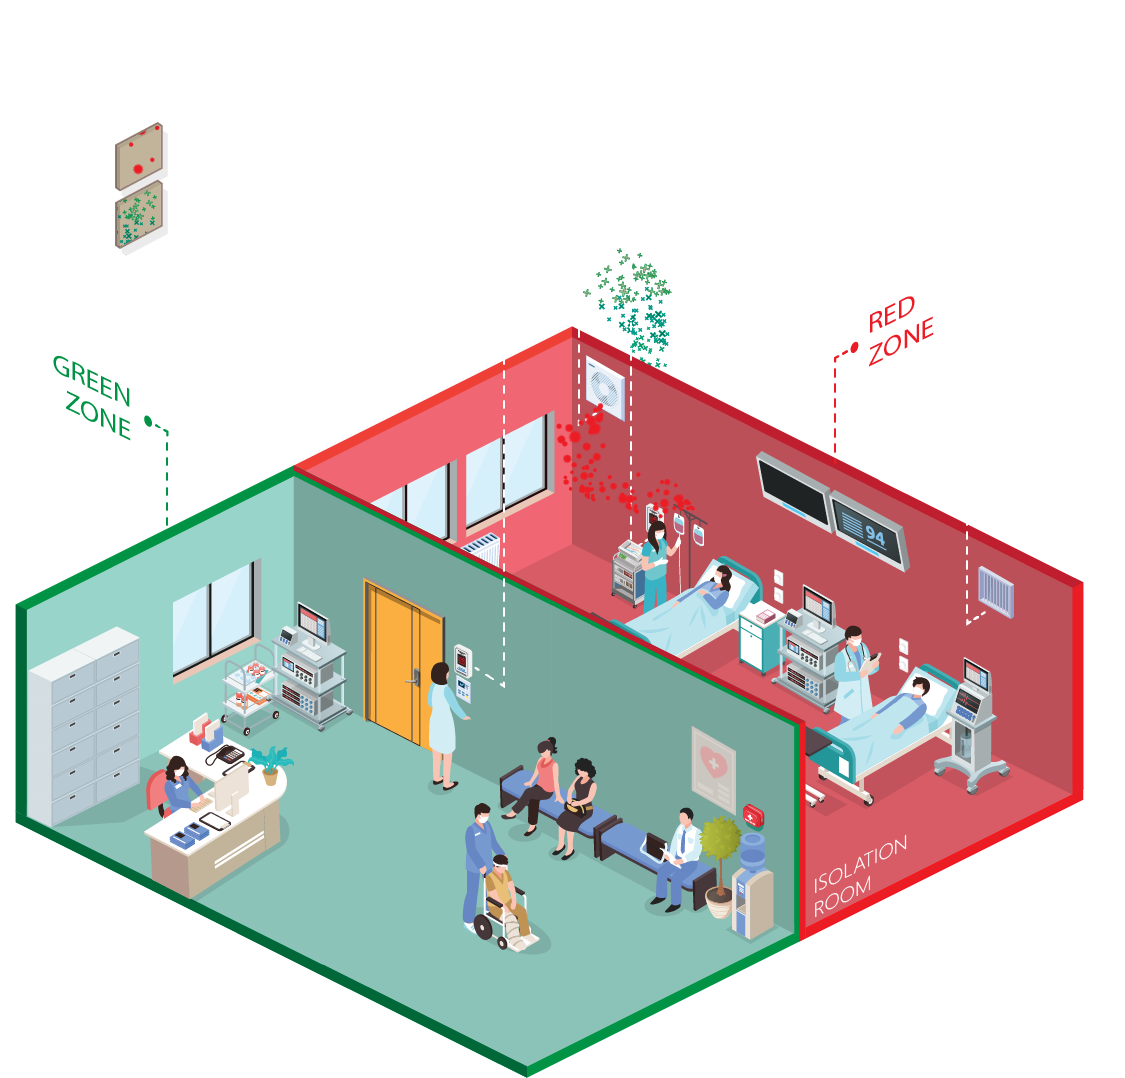
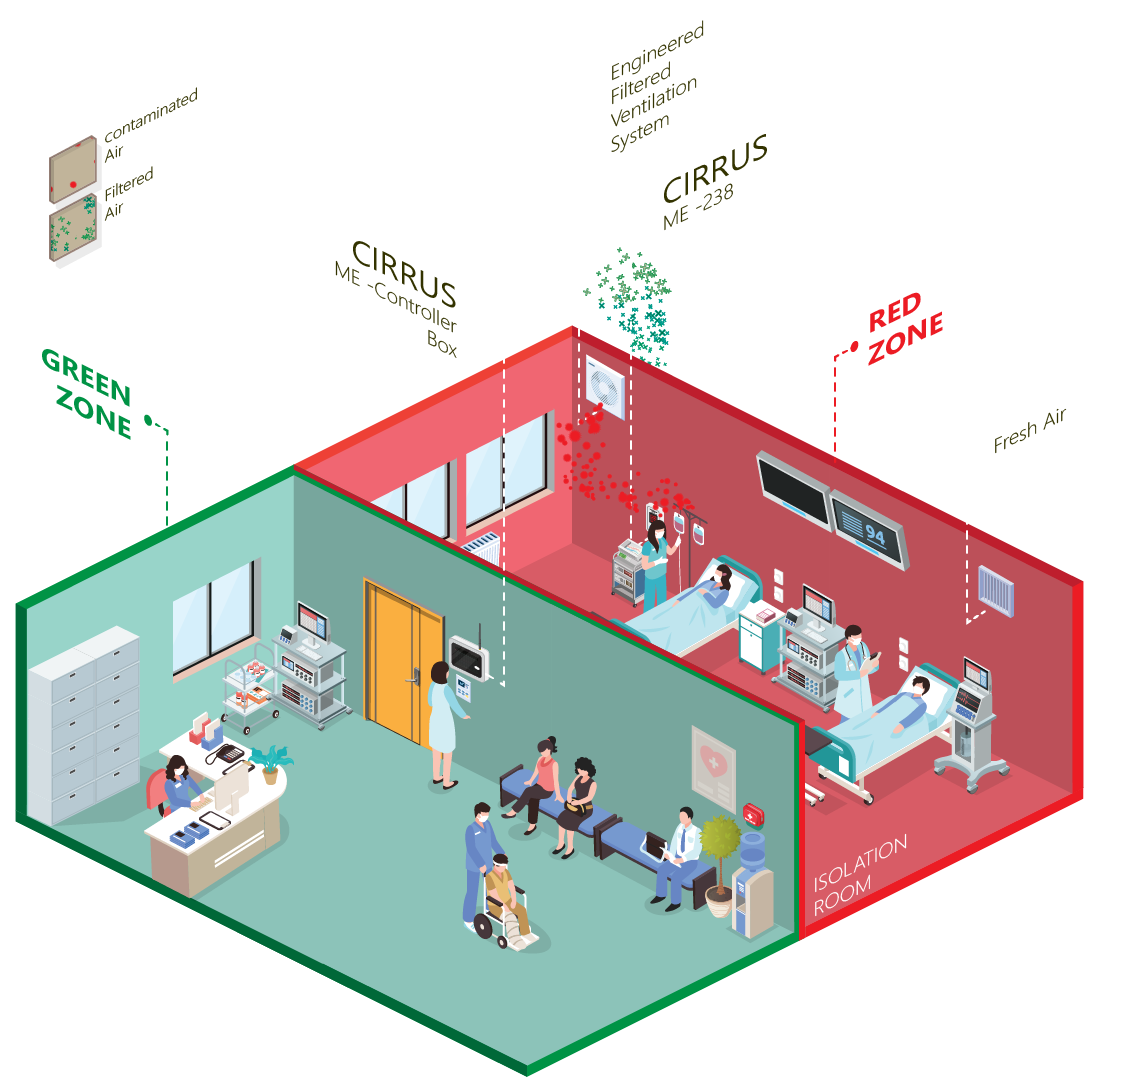
update p2-2.png jp2-2.png with contorllerbox

diff --git a/part2-2.html b/part2-2.html
@@ -169,8 +169,8 @@
         <!-- content section start -->
         <section class="content-section clearfix">
           <div class="container">
-            <img lang="en" src="img/contents/p2-2.svg">
-            <img lang="jp" src="img/contents/jp2-2.svg">
+            <img lang="en" src="img/contents/p2-2.png">
+            <img lang="jp" src="img/contents/jp2-2.png">
           </div> 
         </section>
         <!-- content section end -->
